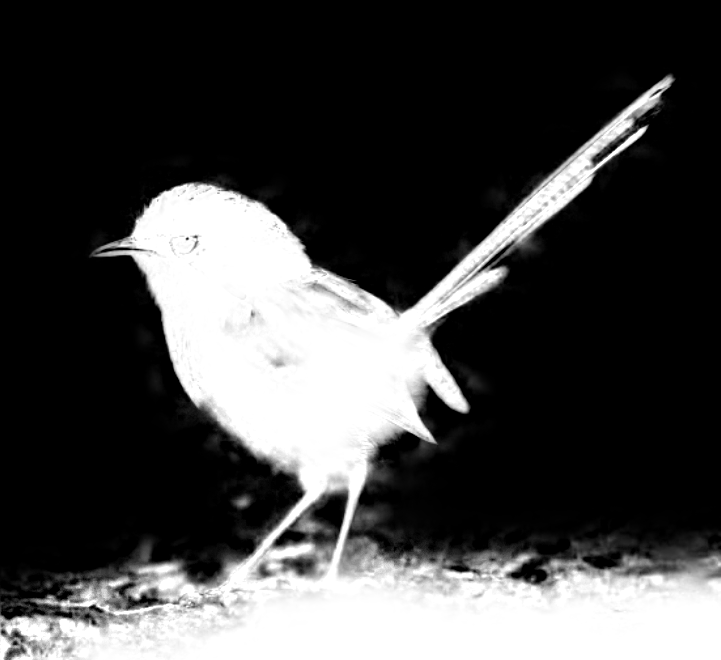
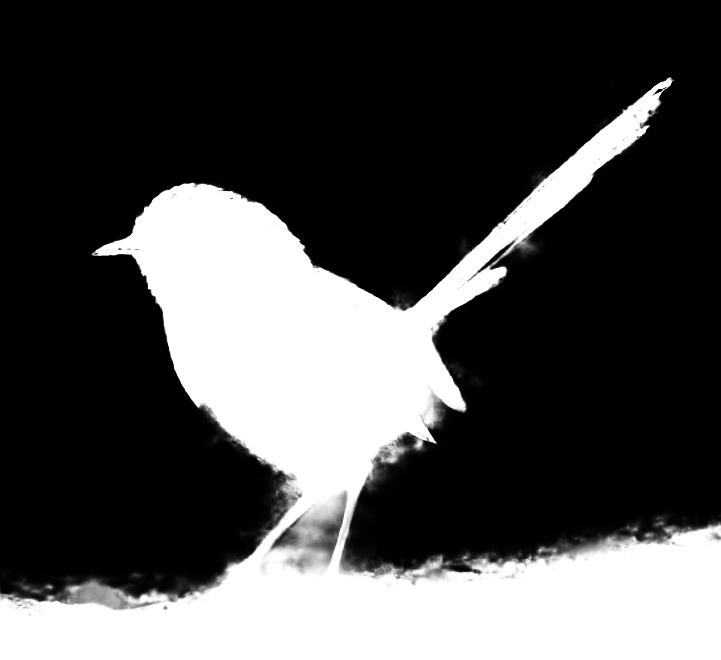
final files submited

diff --git a/SDoF_test.m b/SDoF_test.m
@@ -1,4 +1,4 @@
-function [I, B, S] = SDoF_test(im, W)
+function I = SDoF_test(im, W)
 % this function produces the shallow depth of field effect by fusioning a
 % blurred and sharpen version uf the input image using W as weight map.
 % set parameters maxIter to generate a blurrer image. 
@@ -7,47 +7,29 @@ function [I, B, S] = SDoF_test(im, W)
 J = double(im);
 
 %% Blur image generation. 
+
 %iterative guided filter
 maxIter = 3;
 r = 15; %radius of the filter, bigger -> bigger features smooth out
-a = 3;
-
-EPS = 256/a; %smoothness, bigger -> more wash out effect
-
-    
-windowSize = 33;
-avg3 = ones(windowSize) / windowSize^2;
+% a = 3;
+% EPS = 256/a; %smoothness, bigger -> more wash out effect
+%  
+% windowSize = 33;
+% avg3 = ones(windowSize) / windowSize^2;
 
 
 [h,w,C] =size(J);
 
 B = J;
  
-B(:,:,1) = roifill(J(:,:,1),W);
-B(:,:,2) = roifill(J(:,:,2),W);
-B(:,:,3) = roifill(J(:,:,3),W);
+B(:,:,1) = regionfill(J(:,:,1),W>0.01);
+B(:,:,2) = regionfill(J(:,:,2),W>0.01);
+B(:,:,3) = regionfill(J(:,:,3),W>0.01);
 
 for n = 1 : maxIter
-  % B = imfilter(B, avg3, 'symmetric', 'same', 'conv');
-    B = imresize(double(imguidedfilter(imresize(B, 0.25), imresize(W,0.25), 'NeighborhoodSize', r, 'DegreeOfSmoothing',256/2)), [h, w]);
+   %B = imfilter(B, avg3, 'symmetric', 'same', 'conv'); % Option 1
+   B = imresize(double(imguidedfilter(imresize(B, 0.25), imresize(W,0.25), 'NeighborhoodSize', r, 'DegreeOfSmoothing',256/2)), [h, w]); %option 2
 end
-
-
-
-% 
-% % some data - focused image, grey levels in range 0 to 1
-% focused_image = J
-% defocused_image = [];
-% % approximate psf as a disk
-% for c=1 :3
-%     r = 30; % defocusing parameter - radius of psf
-%     [x, y] = meshgrid(-r:r);
-%     disk = double(x.^2 + y.^2 <= r.^2);
-%     disk = disk./sum(disk(:));
-%     defocused_image(:,:,c) = conv2(focused_image(:,:,c), disk, 'same');
-% end
-% B = defocused_image;
-% size(B)
 
 
 %% Sharp image generation. 

diff --git a/refine_blurmapGF.m b/refine_blurmapGF.m
@@ -1,10 +1,10 @@
-function [r, t] = refine_blurmapGF(x, b, radio, N)
+function r = refine_blurmapGF(x, b, radio, N)
 imo = x;
 [H, W, ~] = size(x);
 
 % Downsample the map
 
-scale =3;
+scale =1;
 x=imresize(double(x), 1/scale,'Method', 'nearest');
 b=imresize(double(b), 1/scale,'Method',  'nearest'); % Downsampled normalized blur map
 
@@ -16,9 +16,9 @@ avg3 = ones(windowSize) / windowSize^2;
 b = imfilter(b, avg3, 'symmetric', 'same', 'conv');
 
 % Smooth original image. 
-%case 6
+
 windowSize = 2*round(radio/(scale*2))+1
-x = double(x)/255;
+
 im = x;
 for n= 1:N
     x = weightedGF(x,x,windowSize,.05, 6);
@@ -30,25 +30,19 @@ avg3 = ones(windowSize) / windowSize^2;
 windowSize = 2*round(radio/(scale*2))+1;
 % Iterative WGF
 r = b;
+eps = 10^-6;
+w = 4*radio+1;
+
 for n= 1:N
-    r= imfilter(r, avg3,'symmetric','same', 'conv');
-   % r = weightedGF(r,g , windowSize, 0.05, 6);
-    eps = 10^-6;
-    w = 4*radio+1;
+    %r= imfilter(r, avg3,'symmetric','same', 'conv');
     r = imguidedfilter(r, im, 'NeighborhoodSize', w, 'DegreeOfSmoothing',eps);
 end
 
 
     
 r = imresize(r, [H W], 'Method',  'lanczos2'); % Refined full size normalized blur map
-t = imresize(x, [H W], 'Method',  'lanczos2'); % Refined full size normalized blur map
-%r = weightedGF(r,double(rgb2gray(im) ), 5, 0.05, 6);
+
 r = imguidedfilter(r, imo, 'NeighborhoodSize', w, 'DegreeOfSmoothing',eps);
-%eps = 10^-6;
-
-%w = 4*radio+1;
-
-%r = imguidedfilter(r, im, 'NeighborhoodSize', w, 'DegreeOfSmoothing',eps);
 
 
 

diff --git a/NLT.m b/NLT.m
@@ -1,7 +1,7 @@
 function W = NLT(b, M0, M1)
 % This function makes a non linar transformation of the normalized blur map
-% using a gausian function. b should be normalized. 
-%calculate Sigma and Beta
+% using a gausian function. b should be rescaled to the interval [0, 1]. 
+% calculate Sigma and Beta
 
 a = log(-log(0.001))/log(-log(0.999));
 Sigma = exp((log(10-M0) - a*log(10-M1))/(1-a));
@@ -10,8 +10,5 @@ Beta = log(-log(0.001))/log((10-M0)/Sigma);
 %nonlinear transformation using 
 q = 10*b;
 W =  1-exp(-((10-q)/Sigma).^Beta);
-
-
-
 
 end

diff --git a/get_blurmap.m b/get_blurmap.m
@@ -37,6 +37,4 @@ function m = get_blurmap(im, model, stepSize, s0)
     end
 
     m = (J./C); 
-    m = rescale(m);
-
 end
